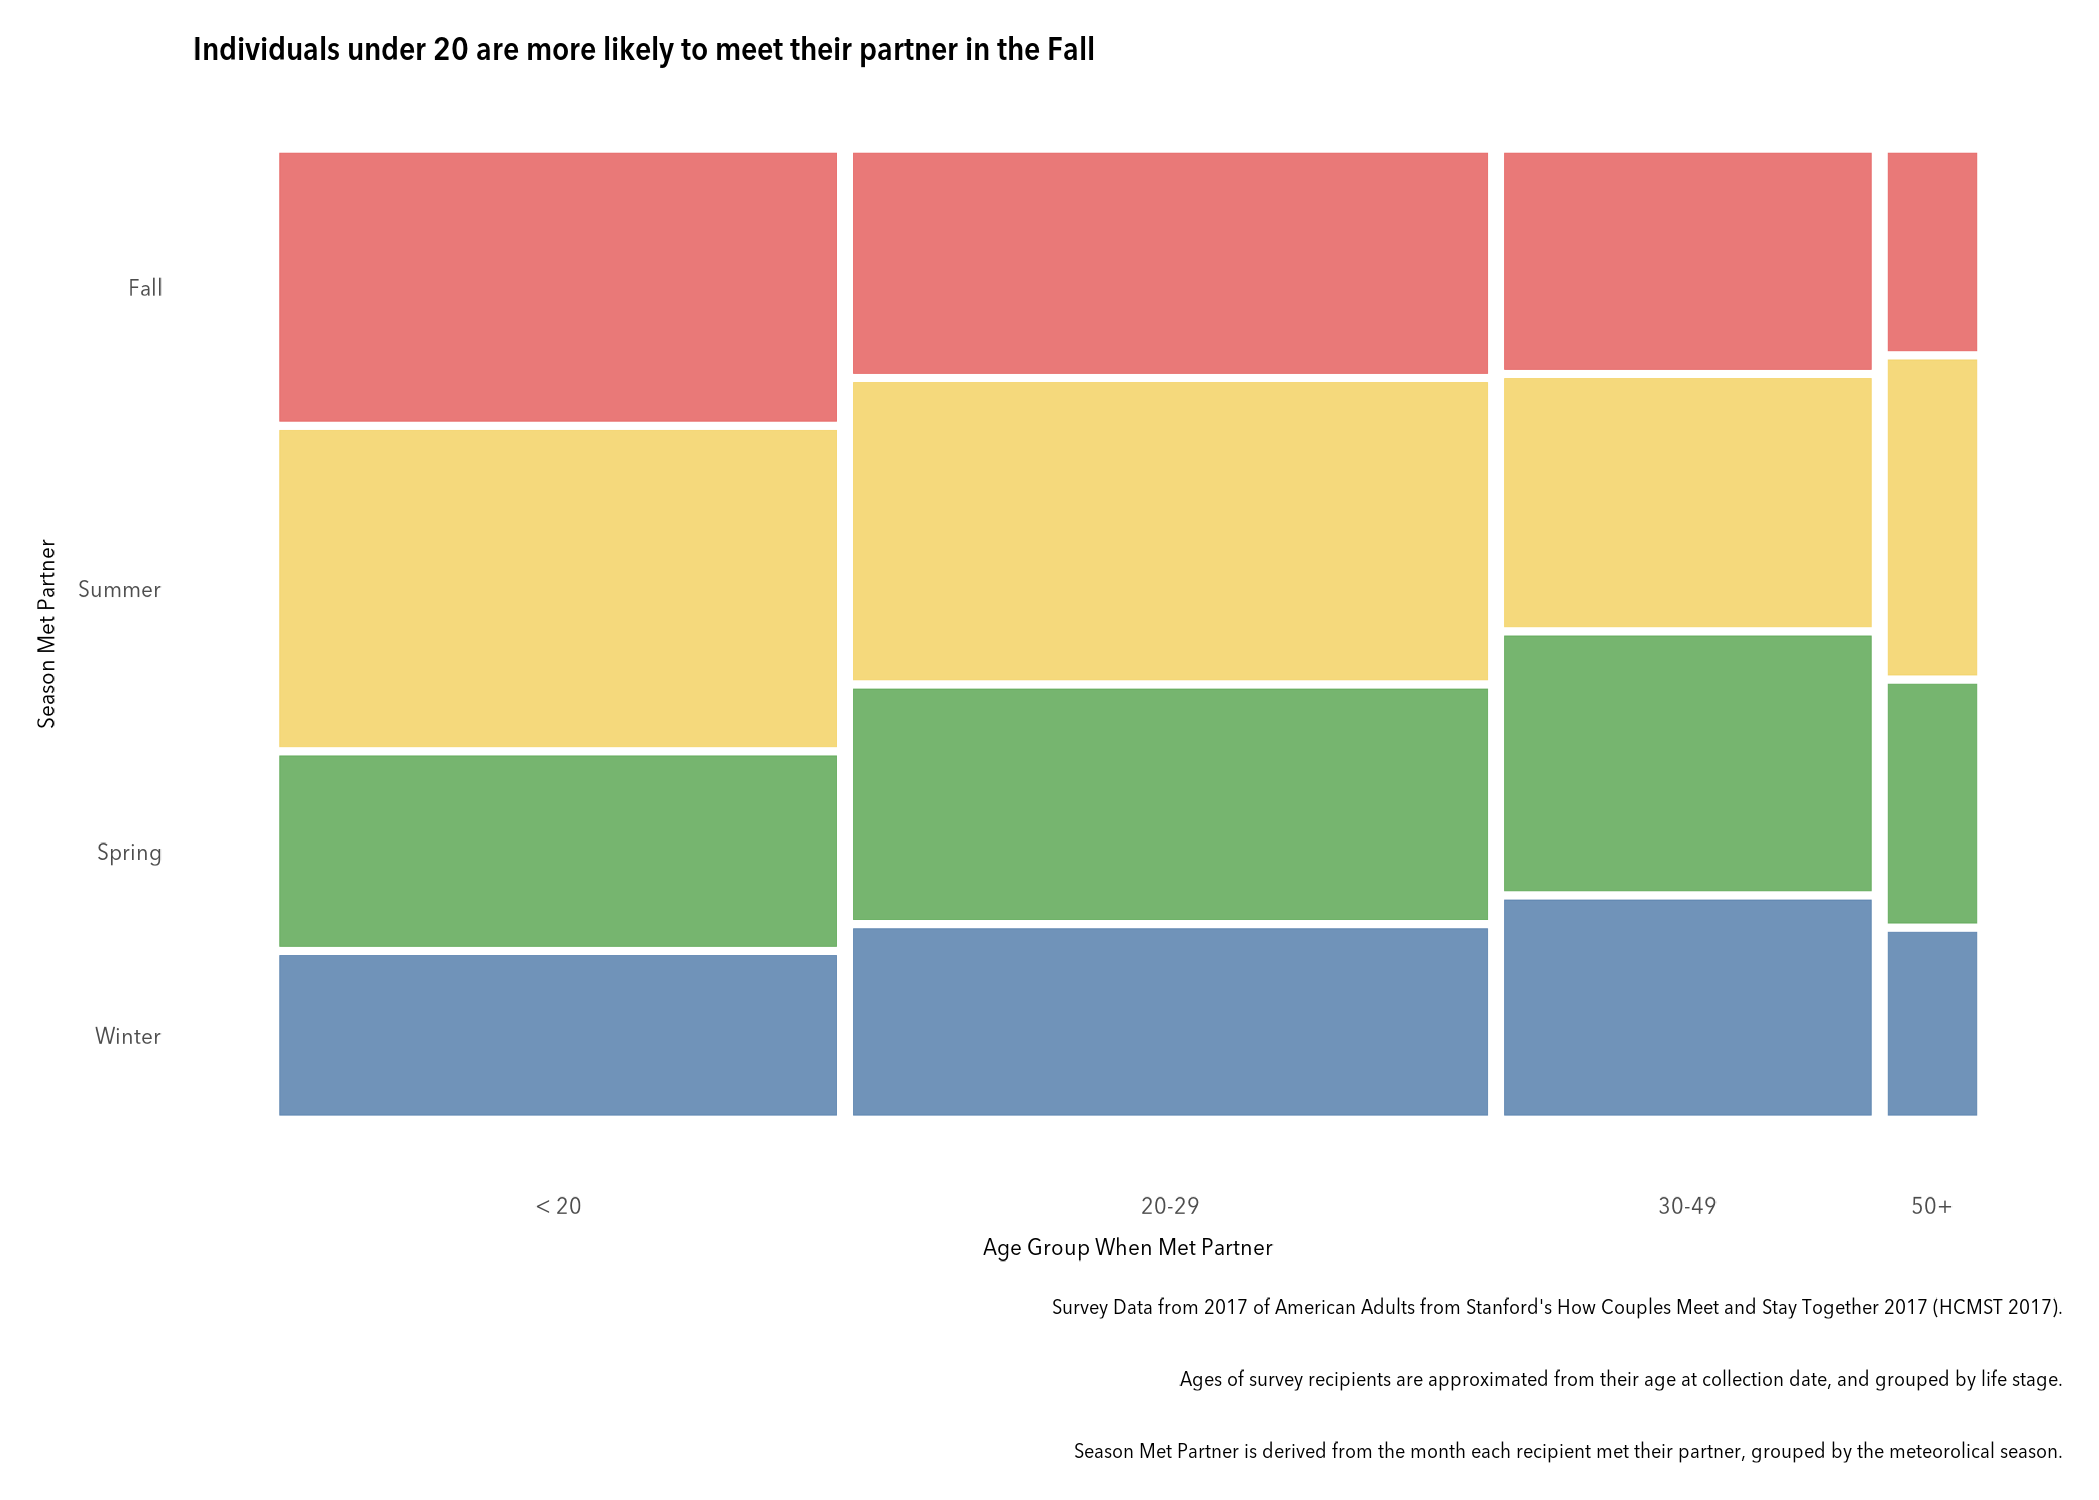
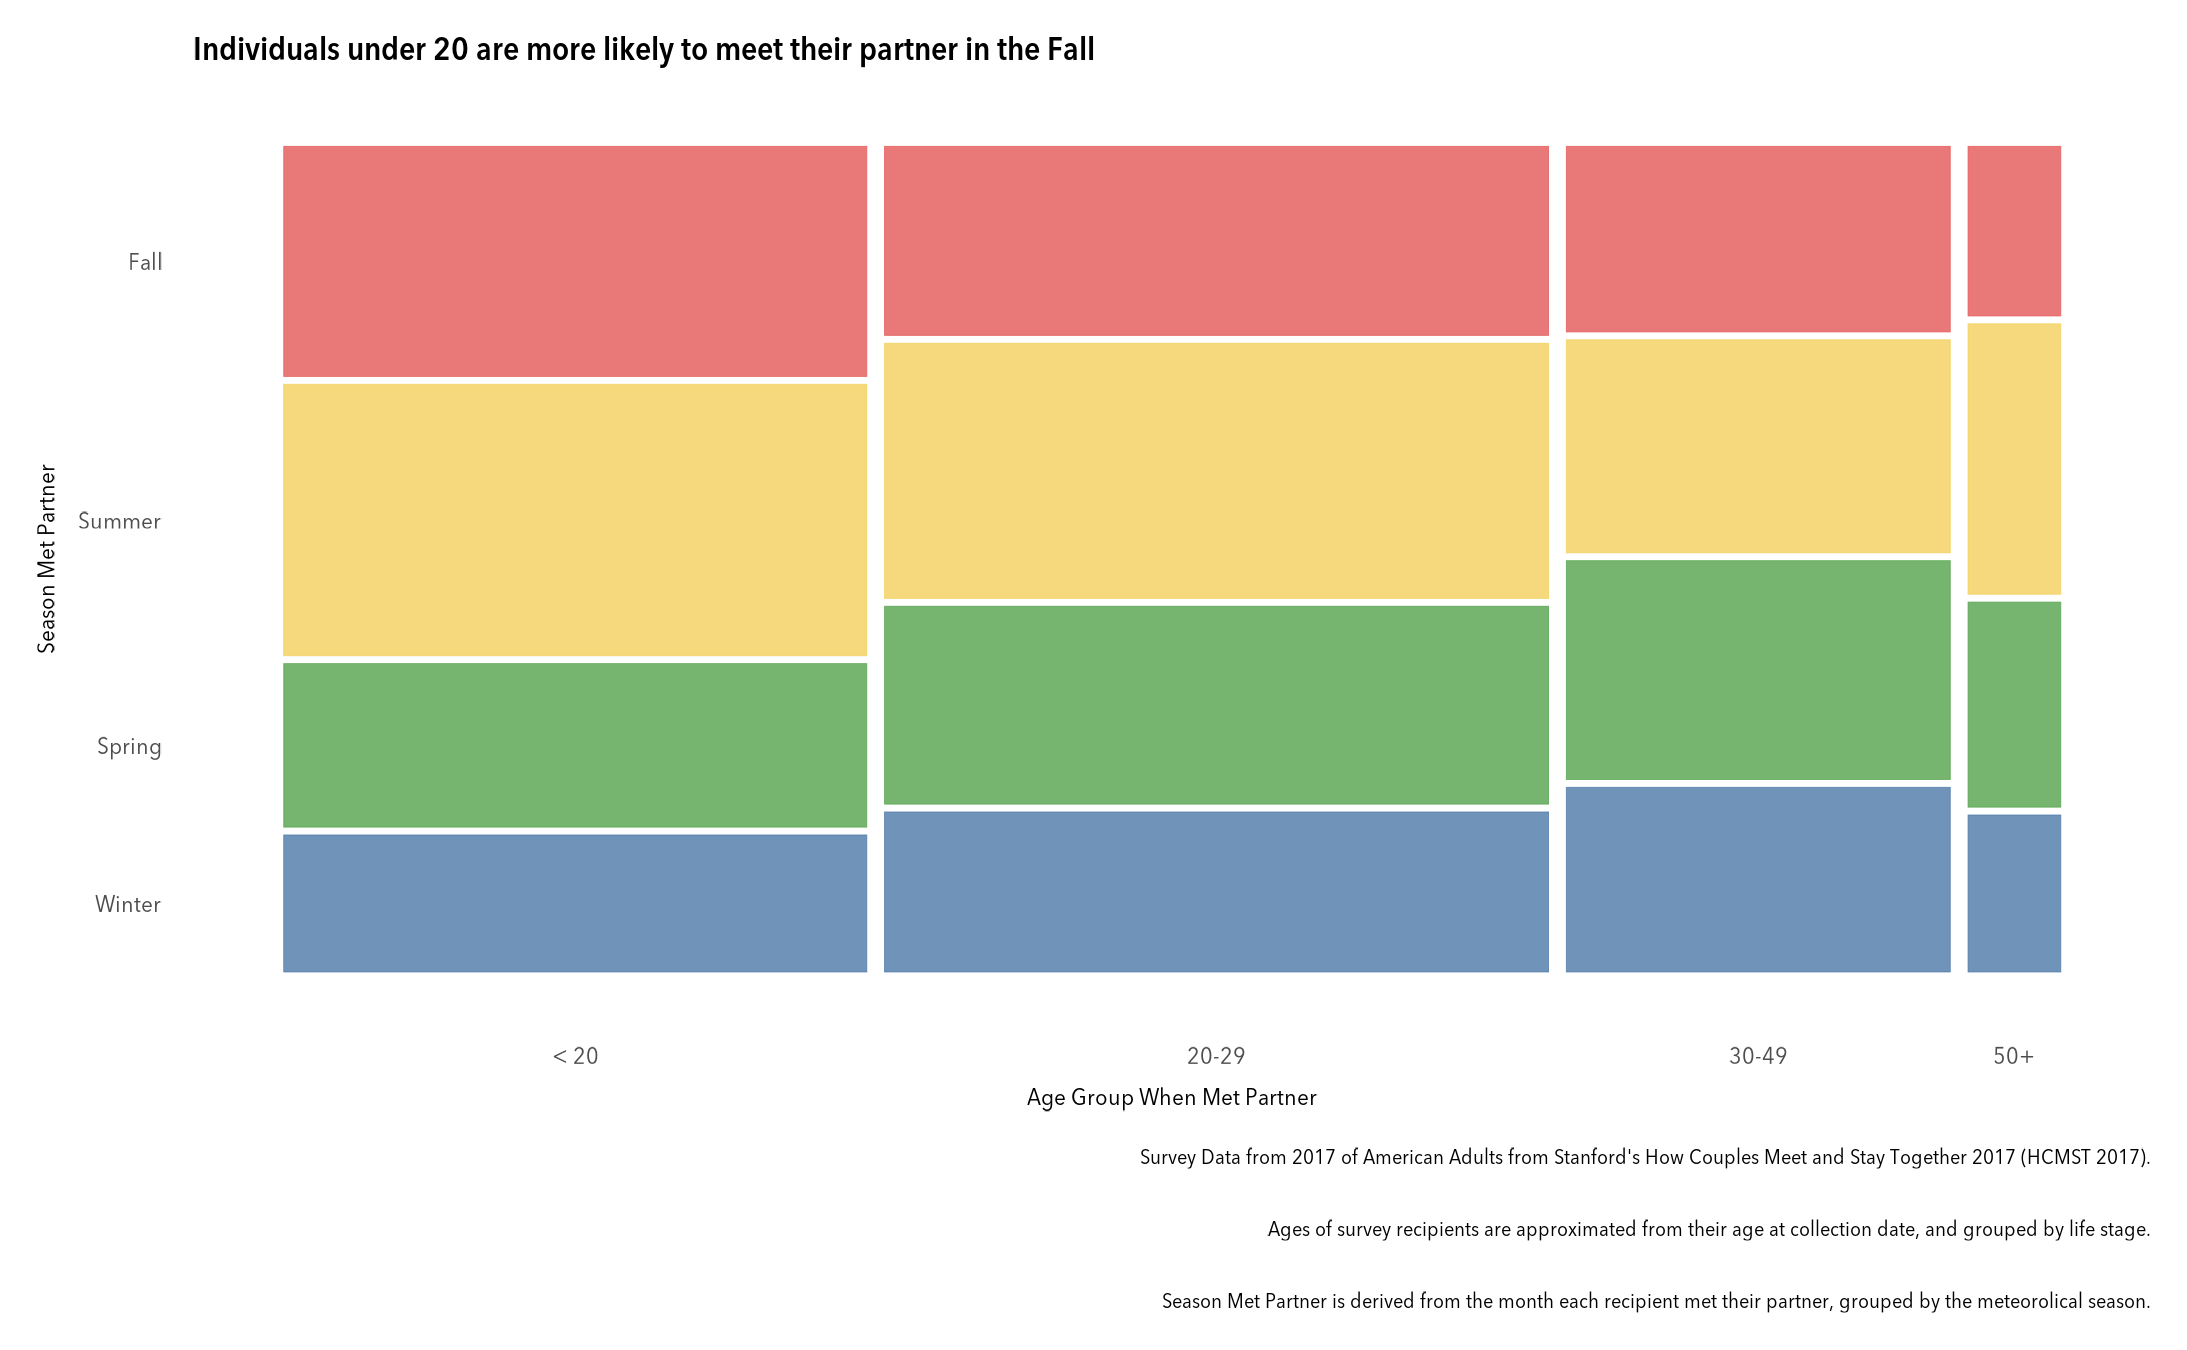
introduced concept in abstract and added a limitation to technical notes

diff --git a/docs/technical_notes.md b/docs/technical_notes.md
@@ -91,3 +91,5 @@ This project is titled "Cuffing Season" and is focused on validating the cuffing
 -   A more recent survey with categorized questions on medium of meeting would be interesting to see how the trend differs across different modes of contact.
 
     -   This is possible using the survey data, but online dating has grown since then, and the survey asked about how partners met via an open ended question, making it more difficult to categorize.
+
+-   Because the survey was conducted over summer, it may ignore the (alleged) short-term nature of cuffing season, as some respondents may not report it as their most recent "real" relationship.

diff --git a/docs/abstract.md b/docs/abstract.md
@@ -1,8 +1,7 @@
 ---
 title: Project overview
-author: Your name here
-date: 2026-10-01
+author: Connor Mahone
+date: 2026-11-04
 ---
 
-This is the midterm project from my graduate course in data visualization at
-UMBC. For this project, I ...
+This is the midterm project from my graduate course in data visualization at UMBC. For this project, I explored seasonal trends in relationships across age groups. The concept of "cuffing season" is the idea that people seek romantic relationships during colder months

diff --git a/docs/technical_notes-gfm.md b/docs/technical_notes-gfm.md
@@ -126,3 +126,7 @@ patterns in romantic relationships.
   - This is possible using the survey data, but online dating has grown
     since then, and the survey asked about how partners met via an open
     ended question, making it more difficult to categorize.
+
+- Because the survey was conducted over summer, it may ignore the
+  (alleged) short-term nature of cuffing season, as some respondents may
+  not report it as their most recent “real” relationship.
